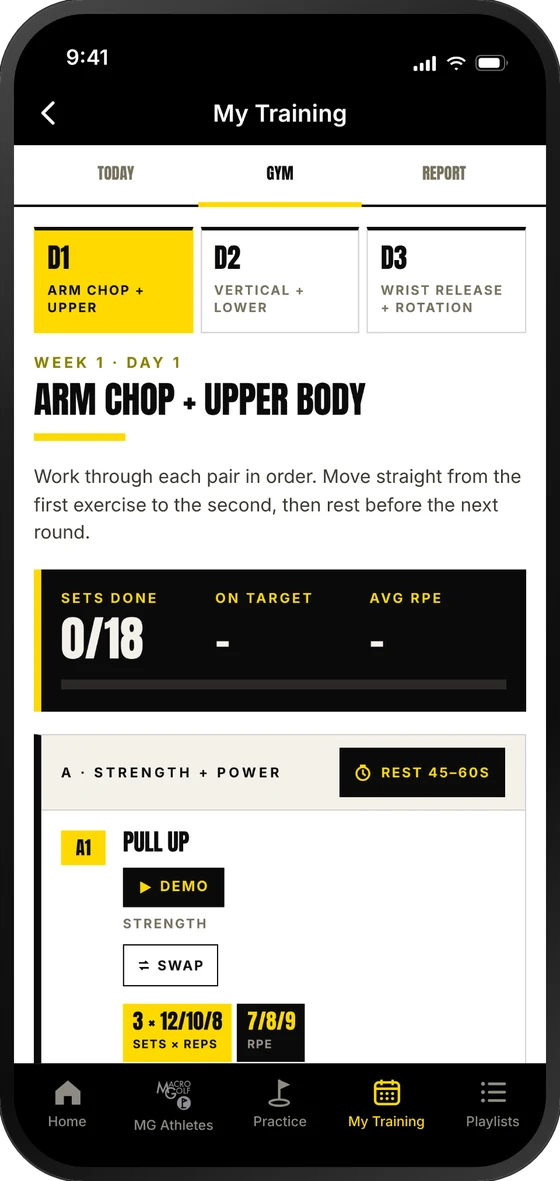
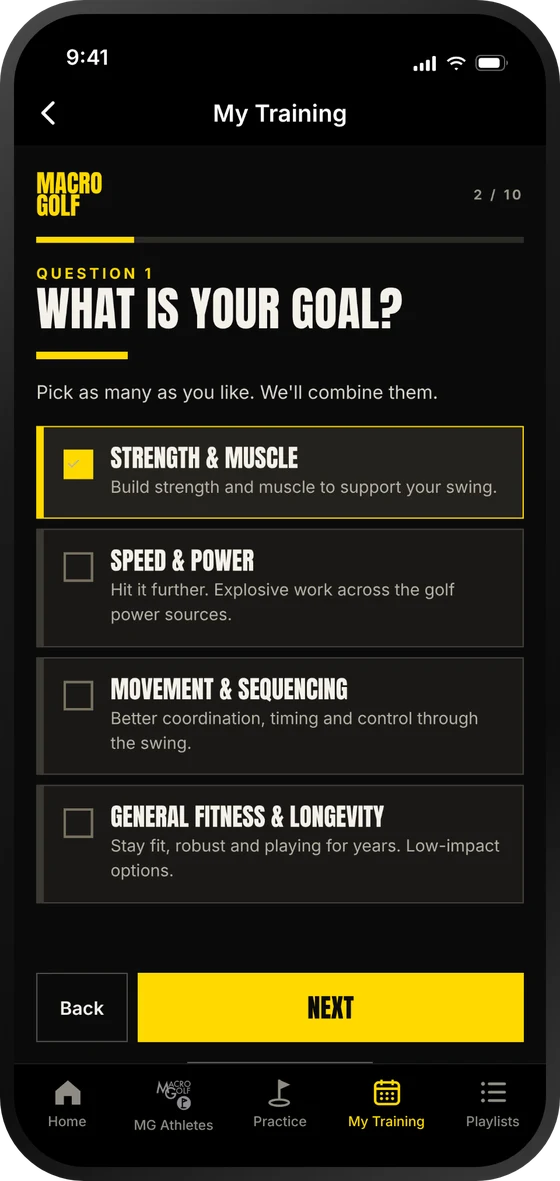
Website phone pictures 4, 5, 8 dark to match App Store update 3
Claude-Session: https://claude.ai/code/session_01DkSaFspKHERjZZRZYzDpGf

diff --git a/pages/app.html b/pages/app.html
@@ -252,7 +252,7 @@
       <li>Warm-ups, mobility and recovery routines.</li>
     </ul>
   </div>
-  <div><img class="shot" src="{{BASE}}assets/web/phone-08-move-better-swing-faster.webp" alt="A training session in the app" loading="lazy"></div>
+  <div><img class="shot" src="{{BASE}}assets/web/phone-08-move-better-swing-faster.webp" alt="Build My Plan in the app" loading="lazy"></div>
 </div></section>
 
 <section class="dark"><div class="w split rev">

diff --git a/CLAUDE.md b/CLAUDE.md
@@ -2,13 +2,9 @@
 
 Three people work on this repo with their own Claude: **Joe** (founder, fitness plans and the overall system), **Jack** (golf games, tests and golf plans) and **Sam** (1-to-1 client training plans, built from `clients/*.js`). Their Claudes cannot talk to each other directly. **This file and `WORKLOG.md` are how they coordinate.** Read both before you change anything.
 
-## FOR JACK'S CLAUDE (from Joe, 13 Nov 22:30): App Store screenshots still need fixing
-
-Joe: "app store screenshots still wrong. 3 have white background". In pack update 2 (app-store-pack, 1f6f1eb) slides 4 (Hole Out), 5 (Leaderboard) and 8 (My Training) show a white app screen inside the phone. Make them dark like the rest, in every size folder (iPhone X, iPhone 8, iPad, Android phone, Android tablet), push to app-store-pack, then update the note below for Joe's Claude. Uploading the iPad and Android tablet sets to VidApp is Joe-only: Joe's Claude does it with the fixed slides.
-
 ## FOR JOE'S CLAUDE (from Jack, 13 Nov, 22:50): App Store pack update 3 is ready (dark slides 4, 5, 8)
 
-Done as Joe asked: slides 4 (Hole Out), 5 (Leaderboard) and 8 (My Training) now have the dark look in **every** size folder (iPhone X, iPhone 8 / Android phone, iPad, Android 10-inch tablet, 6.9in / 6.3in). Branch `app-store-pack`, commit 099dda5; details at the top of `docs/for-joe-app-store-pack.md`. Slide 4 is the dark game-done screen and no longer says 'Nine scored games'; slide 8 is Build My Plan's goal question. Upload: replace 4, 5, 8 in the iPhone X, iPhone 8 and Android phone sets, and add the full iPad (7) and Android tablet (7) sets, which already include them. Everything below from update 2 still applies.
+Done as Joe asked: slides 4 (Hole Out), 5 (Leaderboard) and 8 (My Training) now have the dark look in **every** size folder (iPhone X, iPhone 8 / Android phone, iPad, Android 10-inch tablet, 6.9in / 6.3in). Branch `app-store-pack`, commit 099dda5; details at the top of `docs/for-joe-app-store-pack.md`. Slide 4 is the dark game-done screen and no longer says 'Nine scored games'; slide 8 is Build My Plan's goal question. Upload: replace 4, 5, 8 in the iPhone X, iPhone 8 and Android phone sets, and add the full iPad (7) and Android tablet (7) sets, which already include them. The website phone pictures `assets/web/phone-04/05/08-*.webp` are remade to match on `main` and /app is re-pinned. Everything below from update 2 still applies.
 
 ### Update 2 (earlier)
 

diff --git a/WORKLOG.md b/WORKLOG.md
@@ -3,6 +3,7 @@
 Shared log between Joe's, Jack's and Sam's Claude. Newest at the top. One line per start or finish:
 `YYYY-MM-DD HH:MM · who · what · status`
 
+2026-11-13 22:55 · Jack's Claude · Website phone pictures matched to App Store update 3: assets/web/phone-04 / 05 / 08 remade dark (same method, 560 px, transparent); /app alt text for slide 8 now 'Build My Plan'. Removed the done 'FOR JACK'S CLAUDE' note from CLAUDE.md. Re-pinning /app · in progress
 2026-11-13 23:30 · Joe's Claude · Plan Builder rework from Joe's notes + coach plans in the app. Builder: practice is Technical or Game (games only from the app, src/mg-library.js; 'New game' with a description goes to mg_game_suggestions for Jack), attention target is a slider (intention / thought / Golf RPE removed), physical days follow section 4 and the template matches the days (1-5), mobility builds follow-along routines by body area + equipment from the library (154 videos 3+ min), standard KPIs (scoring average, SG off the tee / approach / short game / putting, score killers), coaching check-in questions, 'Create app plan' + welcome message. New pages/coach-plan.html (generated by tools/build-coach-plan.js) + src/coach-plan.js: one app page for every coach-built plan. SHARED CHANGES (backward compatible): templates/parts/20-core.html gets CLIENT.extraTabs (client pages NOT rebuilt; nothing changes for them until the next build), src/weekly-review.js takes CLIENT.weeklyQuestions. supabase/014-coach-plan-app.sql · in progress
 2026-11-13 22:40 · Joe's Claude · /app: 7-day free trial added to pricing + CTA (Joe). In VidApp App Store section (Joe's go-ahead): uploading pack update 2 (iPhone X/8 replace, iPad add, Android phone replace, tablet add, feature graphic) · in progress
 2026-11-13 22:50 · Joe's Claude · VidApp App Store (Joe's go-ahead): uploaded pack update 2 (1f6f1eb). iOS: iPhone 8 slots 1-8 and iPhone X slots 1-8 replaced, iPad slots 1-7 replaced with the new tablet set. Android: feature graphic replaced, phone 1-8 replaced (1242x2208 set), 10-inch tablet 1-7 replaced. Saved and checked after reload. Slides 4, 5, 8 still have white app screens: waiting on Jack. Out of VidApp. src/videos.js (shared): added Ross King's 8 mobility videos (exact titles in the library). · done
